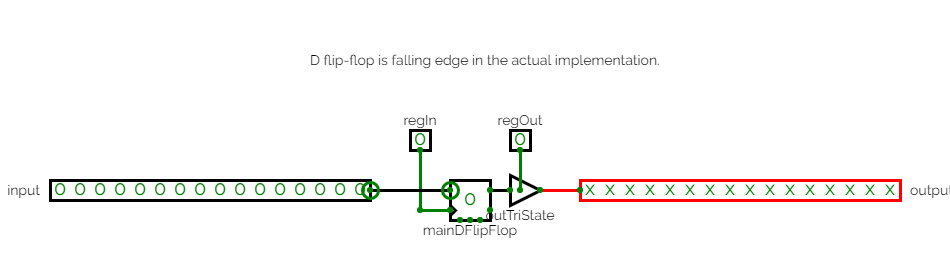
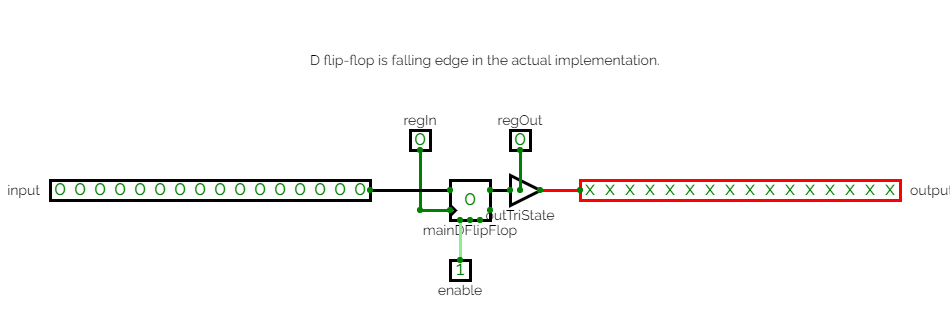
Converted latches to flip-flops

Changed region(s): [[0.0, 0.3556, 1.0, 0.9185], [0.3053, 0.1481, 0.7021, 0.2667]]

diff --git a/src/main/circuits/memory/DFlipFlop.java b/src/main/circuits/memory/DFlipFlop.java
@@ -2,6 +2,7 @@ package main.circuits.memory;
 
 import main.BitStream;
 import main.circuits.Circuit;
+import main.circuits.Multiplexer;
 import main.control.Splitter;
 import main.gates.binary.NOR;
 import main.gates.multi.MultiNOR;
@@ -12,7 +13,7 @@ import java.util.List;
 
 public class DFlipFlop implements Circuit {
 
-    private BitStream D, enable, Q, notQ;
+    private BitStream D, clock, enable, Q, notQ;
     private boolean risingEdge;
     private String name;
     private boolean inDebuggerMode;
@@ -21,7 +22,8 @@ public class DFlipFlop implements Circuit {
     /**Constructors for the D Flip-Flop class.
      *
      * @param D - the input BitStream, often called D
-     * @param enable - the BitStream to control the behaviour of the flip-flop
+     * @param clock - the BitStream coming from the clock controlling the data in the flip-flop
+     * @param enable - the BitStream to control if the flip-flop should react to the clock
      * @param Q - the output
      * @param notQ - the complement of the output
      * @param risingEdge - boolean to specify if the flip-flop is rising or falling edge triggered
@@ -29,9 +31,10 @@ public class DFlipFlop implements Circuit {
      * @param inDebuggerMode - boolean to tell if the circuit is in debug mode
      * @param debugDepth - how deep should debugging go
      */
-    public DFlipFlop(BitStream D, BitStream enable, BitStream Q, BitStream notQ, boolean risingEdge,
+    public DFlipFlop(BitStream D, BitStream clock, BitStream enable, BitStream Q, BitStream notQ, boolean risingEdge,
                      String name, boolean inDebuggerMode, int debugDepth) {
         this.D = D;
+        this.clock = clock;
         this.enable = enable;
         this.Q = Q;
         this.notQ = notQ;
@@ -44,18 +47,18 @@ public class DFlipFlop implements Circuit {
         this.build();
     }
 
-    public DFlipFlop(BitStream D, BitStream enable, BitStream Q, BitStream notQ, boolean risingEdge,
+    public DFlipFlop(BitStream D, BitStream clock, BitStream enable, BitStream Q, BitStream notQ, boolean risingEdge,
                      String name) {
-        this(D, enable, Q, notQ, risingEdge, name, false, 0);
+        this(D, clock, enable, Q, notQ, risingEdge, name, false, 0);
     }
 
-    public DFlipFlop(BitStream D, BitStream enable, BitStream Q, BitStream notQ, boolean risingEdge,
+    public DFlipFlop(BitStream D, BitStream clock, BitStream enable, BitStream Q, BitStream notQ, boolean risingEdge,
                      boolean inDebuggerMode, int debugDepth) {
-        this(D, enable, Q, notQ, risingEdge, "DFlipFlop", inDebuggerMode, debugDepth);
+        this(D, clock, enable, Q, notQ, risingEdge, "DFlipFlop", inDebuggerMode, debugDepth);
     }
 
-    public DFlipFlop(BitStream D, BitStream enable, BitStream Q, BitStream notQ, boolean risingEdge) {
-        this(D, enable, Q, notQ, risingEdge, "DFlipFlop", false, 0);
+    public DFlipFlop(BitStream D, BitStream clock, BitStream enable, BitStream Q, BitStream notQ, boolean risingEdge) {
+        this(D, clock, enable, Q, notQ, risingEdge, "DFlipFlop", false, 0);
     }
 
     /**Getters for all the attributes.
@@ -114,21 +117,28 @@ public class DFlipFlop implements Circuit {
         boolean debugGates = this.debugDepth > 0 ? this.inDebuggerMode : false;
         int size = this.D.getSize();
 
-        BitStream preparedEnabled = this.enable;
+        List<BitStream> multiplexerInput = new ArrayList<>();
+        multiplexerInput.addAll(List.of(this.Q, this.D));
+
+        BitStream multiplexerOutput = new BitStream(size);
+        Multiplexer enableMultiplexer = new Multiplexer(multiplexerInput, this.enable, multiplexerOutput,
+                "enableMultiplexer", debugGates, this.debugDepth - 1);
+
+        BitStream preparedClock = this.clock;
         if (risingEdge) {
             BitStream notOut = new BitStream(1);
-            NOT not = new NOT(preparedEnabled, notOut, "edgeRevertNot", debugGates);
-            preparedEnabled = notOut;
+            NOT not = new NOT(preparedClock, notOut, "edgeRevertNot", debugGates);
+            preparedClock = notOut;
         }
 
-        List<BitStream> enableInputList = new ArrayList<>();
-        enableInputList.add(preparedEnabled);
+        List<BitStream> clockInputList = new ArrayList<>();
+        clockInputList.add(preparedClock);
 
         BitStream splitterOut = new BitStream(size);
-        List<BitStream> enableOutputList = new ArrayList<>();
-        enableOutputList.add(splitterOut);
+        List<BitStream> clockOutputList = new ArrayList<>();
+        clockOutputList.add(splitterOut);
 
-        Splitter mainSplitter = new Splitter(enableInputList, enableOutputList, "mainSplitter", debugGates);
+        Splitter mainSplitter = new Splitter(clockInputList, clockOutputList, "mainSplitter", debugGates);
 
         BitStream nor0Out = new BitStream(size);
         BitStream nor1Out = new BitStream(size);
@@ -138,7 +148,7 @@ public class DFlipFlop implements Circuit {
         List<BitStream> nor1InList = new ArrayList<>();
         nor1InList.addAll(List.of(nor0Out, splitterOut, nor2Out));
 
-        NOR nor0 = new NOR(this.D, nor1Out, nor0Out, "nor0", debugGates);
+        NOR nor0 = new NOR(multiplexerOutput, nor1Out, nor0Out, "nor0", debugGates);
         MultiNOR nor1 = new MultiNOR(nor1InList, nor1Out, "nor1", debugGates);
         NOR nor2 = new NOR(splitterOut, nor3Out, nor2Out, "nor2", debugGates);
         NOR nor3 = new NOR(nor2Out, nor0Out, nor3Out, "nor3", debugGates);

diff --git a/test/main/circuits/memory/DFlipFlopTest.java b/test/main/circuits/memory/DFlipFlopTest.java
@@ -12,31 +12,33 @@ class DFlipFlopTest {
     @Test
     void testFallingEdge() {
         BitStream D = new BitStream(4);
+        BitStream clock = new BitStream(1);
         BitStream enable = new BitStream(1);
+        enable.setData(new boolean[]{true});
         BitStream Q = new BitStream(4);
         BitStream notQ = new BitStream(4);
 
         Input dInput = new Input(new boolean[]{true, false, false, true}, D);
-        Input enableInput = new Input(new boolean[]{true}, enable);
+        Input clockInput = new Input(new boolean[]{true}, clock);
 
-        DFlipFlop dFlipFlop = new DFlipFlop(D, enable, Q, notQ, false);
-        ProcessRunner.run(dInput, enableInput);
+        DFlipFlop dFlipFlop = new DFlipFlop(D, clock, enable, Q, notQ, false);
+        ProcessRunner.run(dInput, clockInput);
 
-        enableInput.setData(new boolean[]{false});
-        ProcessRunner.run(enableInput);
+        clockInput.setData(new boolean[]{false});
+        ProcessRunner.run(clockInput);
 
         assertArrayEquals(new boolean[]{true, false, false, true}, Q.getData());
         assertArrayEquals(new boolean[]{false, true, true, false}, notQ.getData());
 
         dInput.setData(new boolean[]{false, true, false, true});
-        enableInput.setData(new boolean[]{true});
-        ProcessRunner.run(dInput, enableInput);
+        clockInput.setData(new boolean[]{true});
+        ProcessRunner.run(dInput, clockInput);
 
         assertArrayEquals(new boolean[]{true, false, false, true}, Q.getData());
         assertArrayEquals(new boolean[]{false, true, true, false}, notQ.getData());
 
-        enableInput.setData(new boolean[]{false});
-        ProcessRunner.run(enableInput);
+        clockInput.setData(new boolean[]{false});
+        ProcessRunner.run(clockInput);
 
         assertArrayEquals(new boolean[]{false, true, false, true}, Q.getData());
         assertArrayEquals(new boolean[]{true, false, true, false}, notQ.getData());
@@ -45,18 +47,20 @@ class DFlipFlopTest {
     @Test
     void testRisingEdge() {
         BitStream D = new BitStream(4);
+        BitStream clock = new BitStream(1);
         BitStream enable = new BitStream(1);
+        enable.setData(new boolean[]{true});
         BitStream Q = new BitStream(4);
         BitStream notQ = new BitStream(4);
 
         Input dInput = new Input(new boolean[]{true, false, false, true}, D);
-        Input enableInput = new Input(new boolean[]{false}, enable);
+        Input clockInput = new Input(new boolean[]{false}, clock);
 
-        DFlipFlop dFlipFlop = new DFlipFlop(D, enable, Q, notQ, true);
-        ProcessRunner.run(dInput, enableInput);
+        DFlipFlop dFlipFlop = new DFlipFlop(D, clock, enable, Q, notQ, true);
+        ProcessRunner.run(dInput, clockInput);
 
-        enableInput.setData(new boolean[]{true});
-        ProcessRunner.run(enableInput);
+        clockInput.setData(new boolean[]{true});
+        ProcessRunner.run(clockInput);
 
         assertArrayEquals(new boolean[]{true, false, false, true}, Q.getData());
         assertArrayEquals(new boolean[]{false, true, true, false}, notQ.getData());
@@ -67,20 +71,20 @@ class DFlipFlopTest {
         assertArrayEquals(new boolean[]{true, false, false, true}, Q.getData());
         assertArrayEquals(new boolean[]{false, true, true, false}, notQ.getData());
 
-        enableInput.setData(new boolean[]{false});
-        ProcessRunner.run(enableInput);
+        clockInput.setData(new boolean[]{false});
+        ProcessRunner.run(clockInput);
 
         assertArrayEquals(new boolean[]{true, false, false, true}, Q.getData());
         assertArrayEquals(new boolean[]{false, true, true, false}, notQ.getData());
 
-        enableInput.setData(new boolean[]{true});
-        ProcessRunner.run(enableInput);
+        clockInput.setData(new boolean[]{true});
+        ProcessRunner.run(clockInput);
 
         assertArrayEquals(new boolean[]{true, true, true, true}, Q.getData());
         assertArrayEquals(new boolean[]{false, false, false, false}, notQ.getData());
 
-        enableInput.setData(new boolean[]{false});
-        ProcessRunner.run(enableInput);
+        clockInput.setData(new boolean[]{false});
+        ProcessRunner.run(clockInput);
 
         assertArrayEquals(new boolean[]{true, true, true, true}, Q.getData());
         assertArrayEquals(new boolean[]{false, false, false, false}, notQ.getData());

diff --git a/src/main/circuits/Register.java b/src/main/circuits/Register.java
@@ -7,7 +7,7 @@ import main.gates.TriState;
 
 public class Register implements Circuit {
 
-    private BitStream input, output, regIn, regOut;
+    private BitStream input, output, regIn, regOut, enable;
     private String name;
     private boolean inDebuggerMode;
     private int debugDepth;
@@ -18,16 +18,18 @@ public class Register implements Circuit {
      * @param output - the output from the register
      * @param regIn - control line to tell if the register should read input
      * @param regOut - control line to tell if the register should output data
+     * @param enable - control line to tell if the register is enabled
      * @param name - the name of the register
      * @param inDebuggerMode - boolean to specify if the register is in debug mode
      * @param debugDepth - integer to specify the depth of debugging
      */
-    public Register(BitStream input, BitStream output, BitStream regIn, BitStream regOut,
+    public Register(BitStream input, BitStream output, BitStream regIn, BitStream regOut, BitStream enable,
                     String name, boolean inDebuggerMode, int debugDepth) {
         this.input = input;
         this.output = output;
         this.regIn = regIn;
         this.regOut = regOut;
+        this.enable = enable;
 
         this.name = name;
         this.inDebuggerMode = inDebuggerMode;
@@ -36,18 +38,18 @@ public class Register implements Circuit {
         this.build();
     }
 
-    public Register(BitStream input, BitStream output, BitStream regIn, BitStream regOut,
+    public Register(BitStream input, BitStream output, BitStream regIn, BitStream regOut, BitStream enable,
                     String name) {
-        this(input, output, regIn, regOut, name, false, 0);
+        this(input, output, regIn, regOut, enable, name, false, 0);
     }
 
-    public Register(BitStream input, BitStream output, BitStream regIn, BitStream regOut,
+    public Register(BitStream input, BitStream output, BitStream regIn, BitStream regOut, BitStream enable,
                     boolean inDebuggerMode, int debugDepth) {
-        this(input, output, regIn, regOut, "Register", inDebuggerMode, debugDepth);
+        this(input, output, regIn, regOut, enable,"Register", inDebuggerMode, debugDepth);
     }
 
-    public Register(BitStream input, BitStream output, BitStream regIn, BitStream regOut) {
-        this(input, output, regIn, regOut, "Register", false, 0);
+    public Register(BitStream input, BitStream output, BitStream regIn, BitStream regOut, BitStream enable) {
+        this(input, output, regIn, regOut, enable, "Register", false, 0);
     }
 
     public BitStream getinput() {
@@ -104,7 +106,7 @@ public class Register implements Circuit {
         BitStream dFlipFlopQ = new BitStream(size);
         BitStream dFlipFlopNotQ = new BitStream(size);
 
-        DFlipFlop mainDFlipFlop = new DFlipFlop(this.input, this.regIn, dFlipFlopQ, dFlipFlopNotQ, false,
+        DFlipFlop mainDFlipFlop = new DFlipFlop(this.input, this.regIn, this.enable, dFlipFlopQ, dFlipFlopNotQ, false,
                 "mainDFlipFlop", debugGates, this.debugDepth - 1);
 
         TriState outTriState = new TriState(dFlipFlopQ, this.regOut, this.output, "outTriState in " + this.name, debugGates);

diff --git a/test/main/circuits/RegisterTest.java b/test/main/circuits/RegisterTest.java
@@ -13,6 +13,8 @@ class RegisterTest {
     void test1() {
         BitStream input = new BitStream(4);
         BitStream output = new BitStream(4);
+        BitStream enable = new BitStream(1);
+        enable.setData(new boolean[]{true});
         BitStream regIn = new BitStream(1);
         BitStream regOut = new BitStream(1);
 
@@ -20,9 +22,11 @@ class RegisterTest {
         Input regInInput = new Input(new boolean[]{true}, regIn);
         Input regOutInput = new Input(new boolean[]{true}, regOut);
 
-        Register register = new Register(input, output, regIn, regOut);
-        ProcessRunner.run(regInInput, regOutInput);
-        ProcessRunner.run(mainInput);
+        Register register = new Register(input, output, regIn, regOut, enable);
+        ProcessRunner.run(mainInput, regInInput, regOutInput);
+
+        regInInput.setData(new boolean[]{false});
+        ProcessRunner.run(regInInput);
 
         assertArrayEquals(new boolean[]{true, true, false, true}, output.getData());
 
@@ -48,8 +52,9 @@ class RegisterTest {
         regInInput.setData(new boolean[]{true});
         regOutInput.setData(new boolean[]{true});
 
-        ProcessRunner.run(regOutInput);
-        ProcessRunner.run(regInInput, mainInput);
+        ProcessRunner.run(regInInput, mainInput, regOutInput);
+        regInInput.setData(new boolean[]{false});
+        ProcessRunner.run(regInInput);
 
         assertArrayEquals(new boolean[]{false, true, false, false}, output.getData());
     }

diff --git a/src/main/circuits/RegisterFile.java b/src/main/circuits/RegisterFile.java
@@ -135,13 +135,12 @@ public class RegisterFile implements Circuit {
                 "addrReadDecoder", debugGates, this.debugDepth - 1);
 
         for (int i = 0; i < registerCount; i++) {
-            BitStream regIn = new BitStream(1);
             BitStream regOut = new BitStream(1);
 
-            AND regInAnd = new AND(this.RFIn, addrWriteDecoderOutList.get(i), regIn, "regInAnd" + i, debugGates);
             AND regOutAnd = new AND(this.RFOut, addrReadDecoderOutList.get(i), regOut, "regOutAnd" + i, debugGates);
 
-            Register register = new Register(this.input, this.output, regIn, regOut, "reg" + i, debugGates, this.debugDepth - 1);
+            Register register = new Register(this.input, this.output, this.RFIn, regOut, addrWriteDecoderOutList.get(i),
+                    "reg" + i, debugGates, this.debugDepth - 1);
         }
     }
 }

diff --git a/src/main/circuits/ALU.java b/src/main/circuits/ALU.java
@@ -128,7 +128,10 @@ public class ALU implements Circuit {
         BitStream srcDFlipFlopQ = new BitStream(size);
         BitStream srcDFlipFlopNotQ = new BitStream(size);
 
-        DFlipFlop sourceDFlipFlop = new DFlipFlop(this.source, this.aluIn, srcDFlipFlopQ, srcDFlipFlopNotQ, false,
+        BitStream sourceEnabled = new BitStream(1);
+        sourceEnabled.setData(new boolean[]{true});
+
+        DFlipFlop sourceDFlipFlop = new DFlipFlop(this.source, this.aluIn, sourceEnabled, srcDFlipFlopQ, srcDFlipFlopNotQ, false,
                 "sourceDLatch", debugGates, this.debugDepth - 1);
 
         List<BitStream> decoderOut = new ArrayList<>();

diff --git a/test/main/circuits/memory/DLatchTest.java b/test/main/circuits/memory/DLatchTest.java
@@ -1,4 +1,4 @@
-package main.circuits;
+package main.circuits.memory;
 
 import main.BitStream;
 import main.circuits.memory.DLatch;
